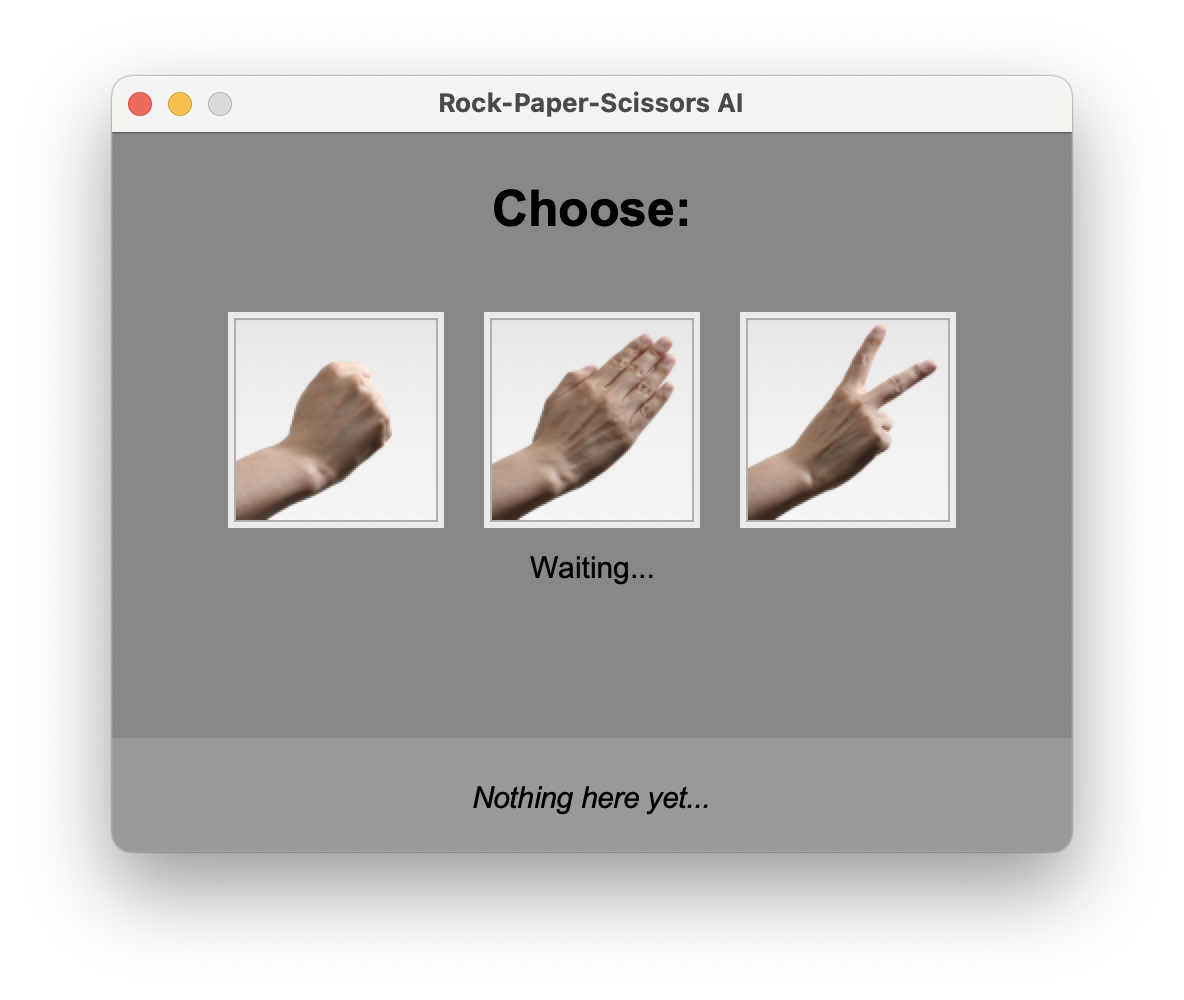
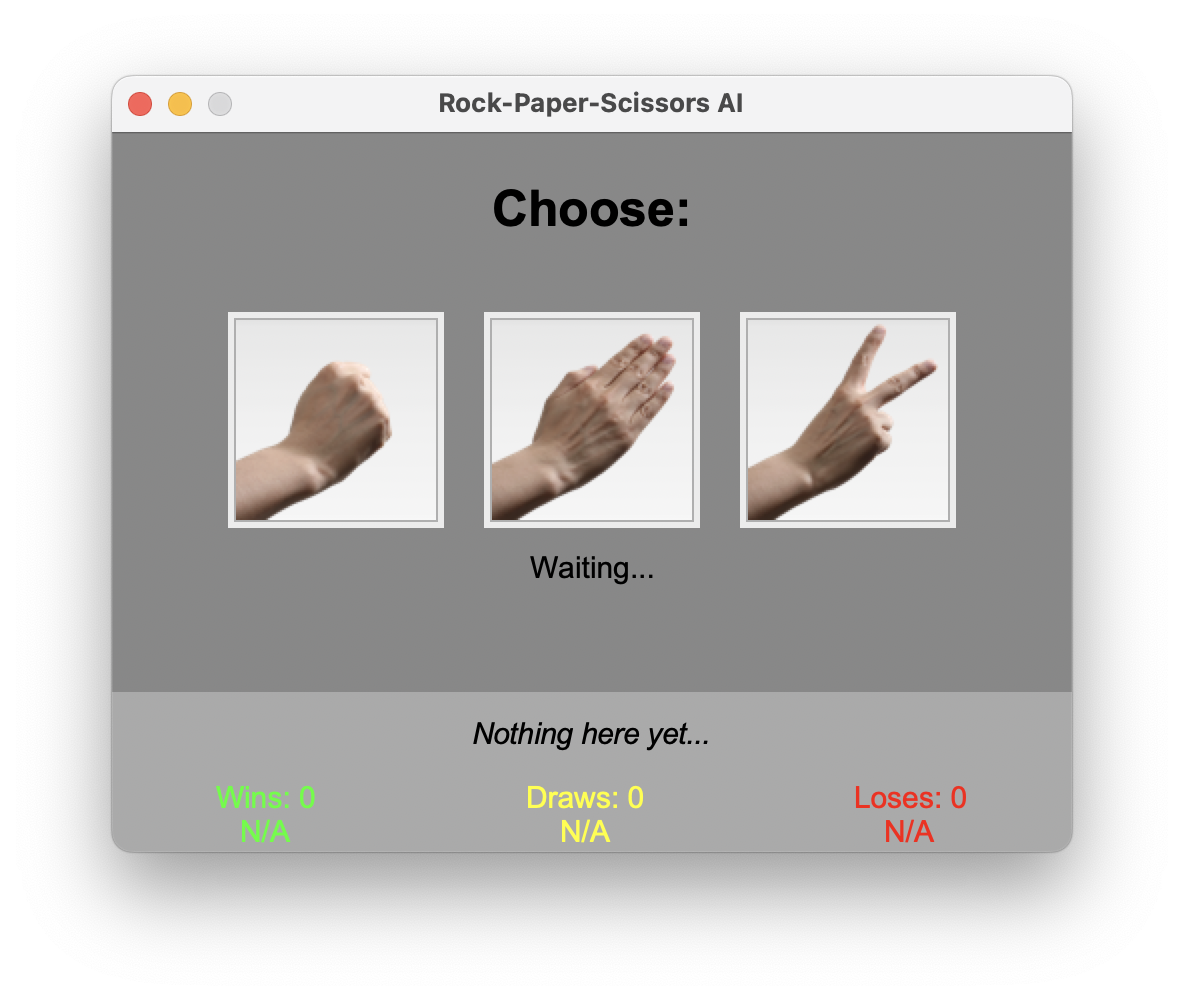
changed the ui

diff --git a/main.py b/main.py
@@ -18,16 +18,24 @@ class App:
         self.ai.history.append(choice)
 
         if res == 0:
-            self.result.config(text=f"You won.\n({self.games} : {(100 * self.wins/self.games):.2f}%)")
+            self.result.config(text=f"You won.")
             self.result.config(bg="#00FF00")
+
+            self.loses += 1
         elif res == 1:
-            self.result.config(text=f"Draw.\n({self.games} : {(100 * self.wins/self.games):.2f}%)")
+            self.result.config(text=f"Draw.")
             self.result.config(bg="#FFFF00")
+
+            self.draws += 1
         else:
+            self.result.config(text=f"AI wins.")
+            self.result.config(bg="#FF0000")
+
             self.wins += 1
 
-            self.result.config(text=f"AI wins.\n({self.games} : {(100 * self.wins/self.games):.2f}%)")
-            self.result.config(bg="#FF0000")
+        self.wins_label.config(text=f"Wins: {self.loses}\n{(100 * self.loses/self.games):.2f}%")
+        self.draws_label.config(text=f"Draws: {self.draws}\n{(100 * self.draws/self.games):.2f}%")
+        self.loses_label.config(text=f"Loses: {self.wins}\n{(100 * self.wins/self.games):.2f}%")
 
     def create_ui(self):
         self.title = Label(self.root, text="Choose:", bg=BG, font=("Arial", 25, 'bold'))
@@ -42,8 +50,8 @@ class App:
         self.paper    = self.button(1)
         self.scissors = self.button(2)
 
-        self.rock.grid(row=0, column=0, padx=10)
-        self.paper.grid(row=0, column=1, padx=10)
+        self.rock.    grid(row=0, column=0, padx=10)
+        self.paper.   grid(row=0, column=1, padx=10)
         self.scissors.grid(row=0, column=2, padx=10)
 
         self.group.place(relx=.5, rely=.4, anchor='center')
@@ -51,8 +59,22 @@ class App:
         self.choice = Label(self.root, text="Waiting...", bg=BG, font=("Arial", 15, 'normal'))
         self.choice.place(relx=.5, rely=.6, anchor='center')
 
-        self.result = Label(self.root, text="Nothing here yet...", bg="#999", font=("Arial", 15, 'italic'), anchor='center', height=3)
-        self.result.pack(side=BOTTOM, fill=X)
+        self.stats = Frame(self.root, bg=BG)
+        self.stats.pack(fill=X, side=BOTTOM)
+
+        self.wins_label  = Label(self.stats, text= f"Wins: 0\nN/A", bg="#333", fg="#00FF00", font=("Arial", 15, 'normal'))
+        self.draws_label = Label(self.stats, text=f"Draws: 0\nN/A", bg="#333", fg="#FFFF00", font=("Arial", 15, 'normal'))
+        self.loses_label = Label(self.stats, text=f"Loses: 0\nN/A", bg="#333", fg="#FF0000", font=("Arial", 15, 'normal'))
+
+        self.wins_label. grid(row=0, column=0, sticky='ew', columnspan=1)
+        self.draws_label.grid(row=0, column=1, sticky='ew', columnspan=1)
+        self.loses_label.grid(row=0, column=2, sticky='ew', columnspan=1)
+
+        for i in range(3):
+            self.stats.grid_columnconfigure(i, weight=1)
+
+        self.result = Label(self.root, text="Nothing here yet...", bg="#AAA", font=("Arial", 15, 'italic'), anchor='center', height=2)
+        self.result.pack(fill=X, side=BOTTOM)
 
     def button(self, id: int) -> Button:
         self.images[id] = ImageTk.PhotoImage(Image.open(f"img/{self.names[id]}.png").resize((100, 100)))
@@ -77,7 +99,10 @@ class App:
                     exponent=data["exponent"])
         
         self.games = 0
+
         self.wins = 0
+        self.draws = 0
+        self.loses = 0
 
         self.root = Tk()
         self.root.title("Rock-Paper-Scissors AI")
